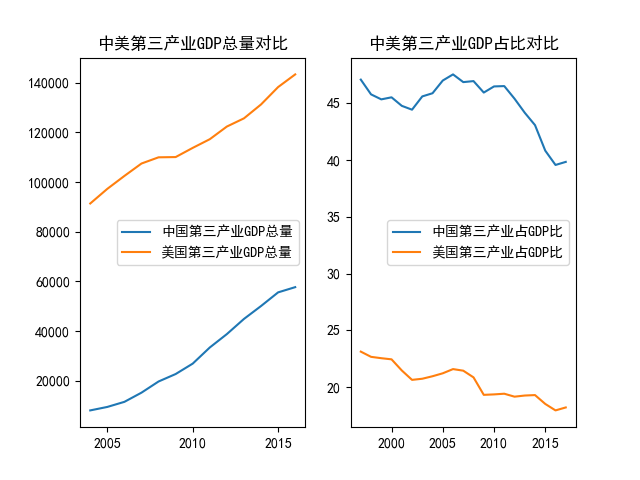
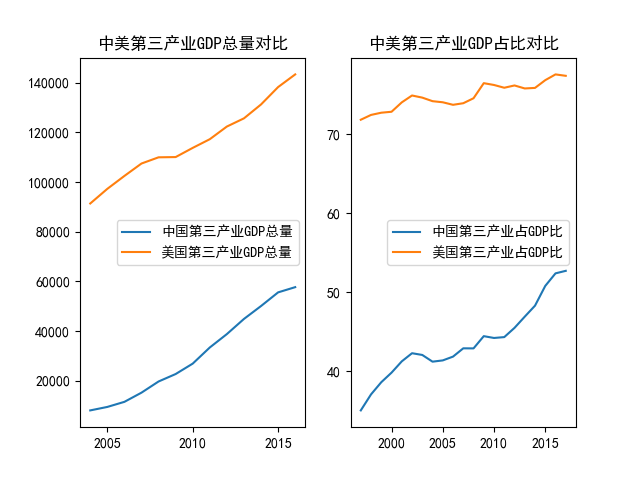
修改了一个绘图错误

diff --git a/第三产业.py b/第三产业.py
@@ -1,7 +1,7 @@
 import matplotlib.pyplot as plt
 with open('中美服务业增加值.txt','r',encoding='utf-8') as f:
     f1=f.readlines()
-with open('中美工业增加值占比','r',encoding='utf-8') as f:
+with open('中美服务业增加值占GDP比重','r',encoding='utf-8') as f:
     f2=f.readlines()
 
 def abstract_gdp(L):
